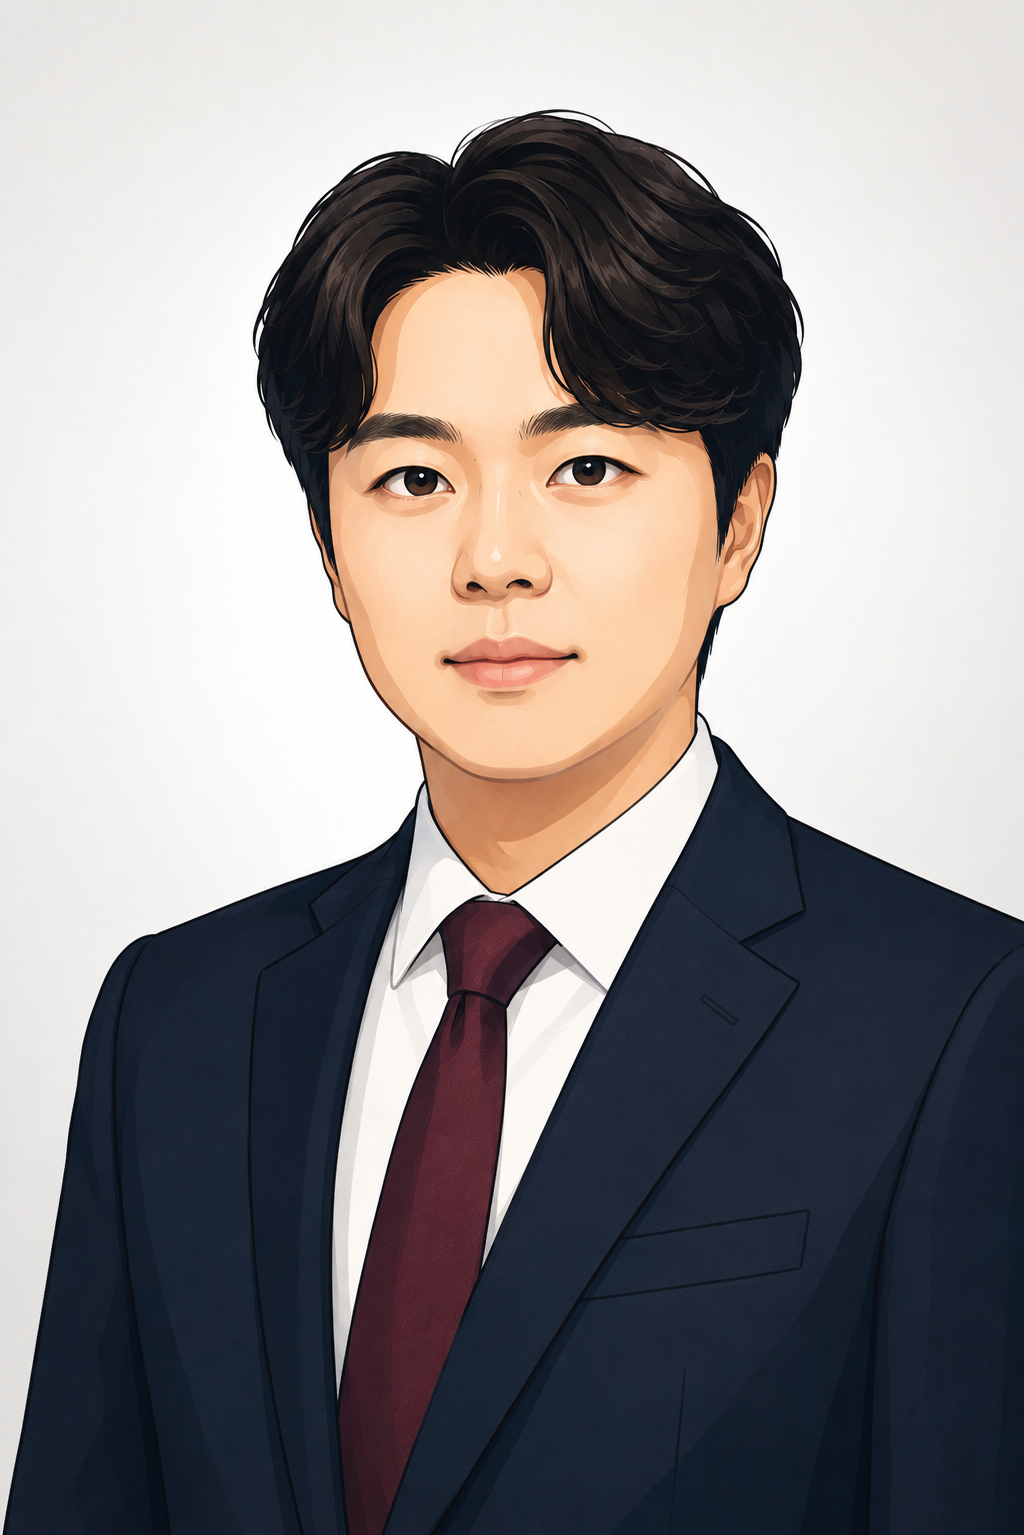
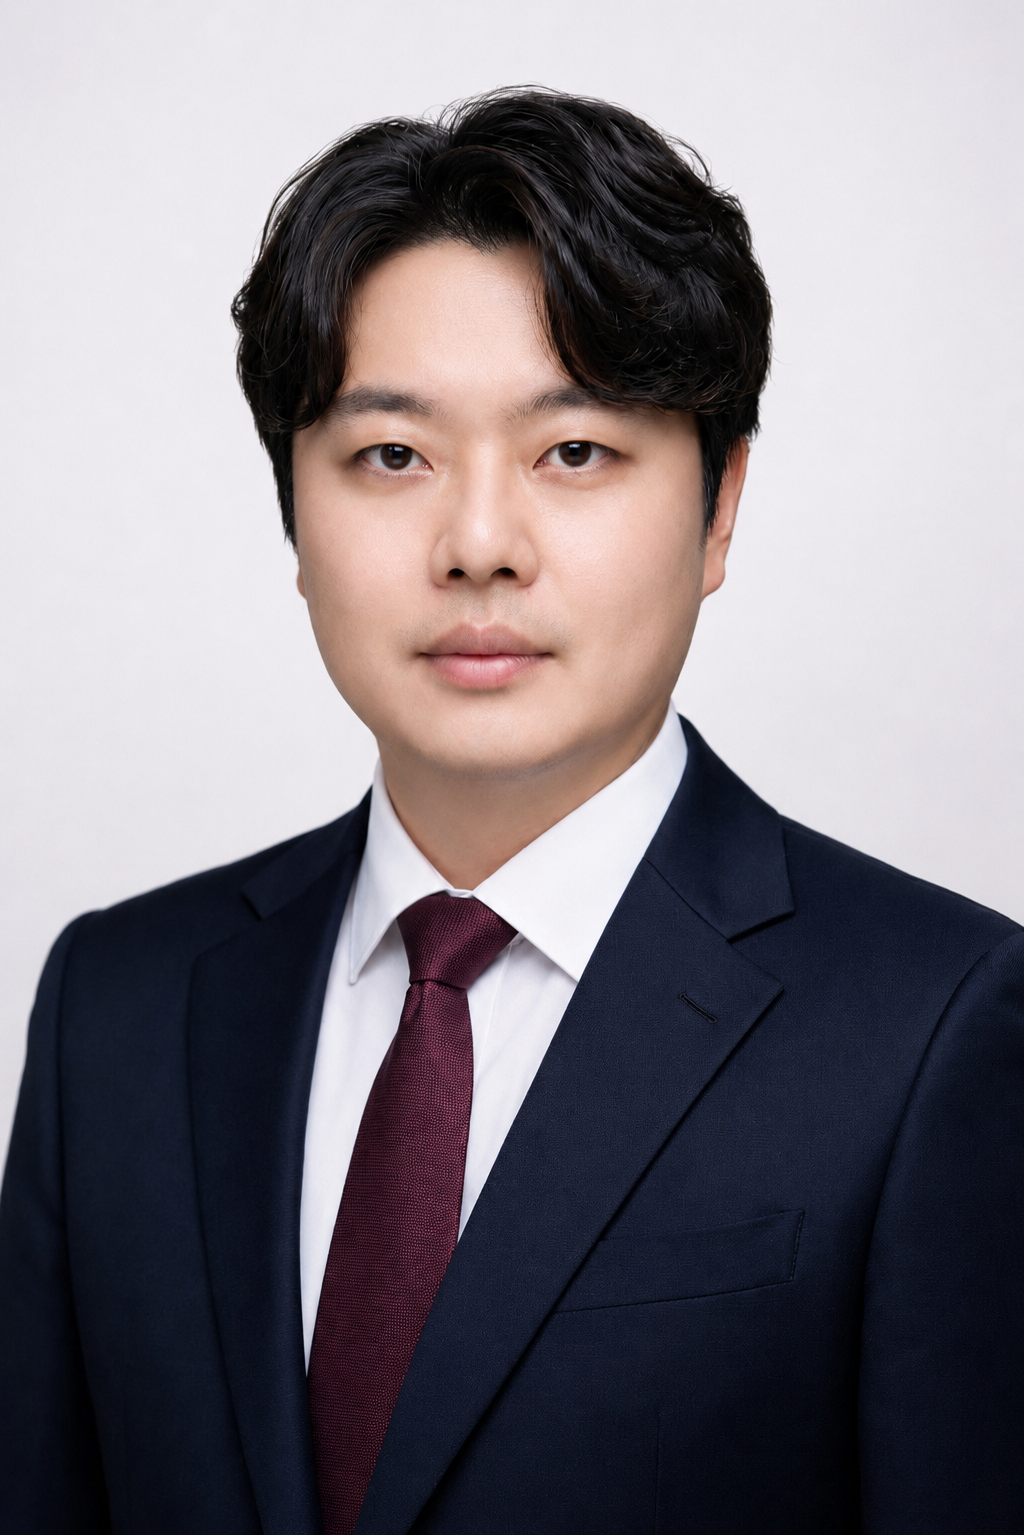
Add files via upload

diff --git a/index.html b/index.html
@@ -3,7 +3,7 @@
 <head>
   <meta charset="UTF-8" />
   <meta name="viewport" content="width=device-width, initial-scale=1.0" />
-  <title>마이퀀트(MyQuant) | 나만의 투자 기준이 곧 프로그램이 됩니다</title>
+  <title>마이퀀트(MyQuant) | 당신의 투자 전략을 자동매매 프로그램으로 만듭니다</title>
   <meta name="description" content="마이퀀트는 개인 투자자의 투자 기준을 조건표로 정리하고, 감시·알림·점검·위험관리·주문 전 확인까지 단계적으로 구성하는 개인 투자 자동화 서비스입니다." />
   <meta name="keywords" content="마이퀀트, MyQuant, 개인 투자 자동화, 투자 기준 정리, 조건 감시, 알림, 위험관리, 매수 후 모니터링" />
   <meta name="robots" content="index, follow, max-image-preview:large, max-snippet:-1, max-video-preview:-1" />
@@ -12,12 +12,12 @@
   <meta property="og:type" content="website" />
   <meta property="og:locale" content="ko_KR" />
   <meta property="og:site_name" content="마이퀀트(MyQuant)" />
-  <meta property="og:title" content="마이퀀트 | 나만의 투자 기준이 곧 프로그램이 됩니다" />
+  <meta property="og:title" content="마이퀀트 | 당신의 투자 전략을 자동매매 프로그램으로 만듭니다" />
   <meta property="og:description" content="1인 1투자 프로그램 시대를 여는 개인 투자 자동화 서비스입니다." />
   <meta property="og:image" content="./asset/CI.png" />
   <meta property="og:image:alt" content="마이퀀트 MyQuant CI" />
   <meta name="twitter:card" content="summary" />
-  <meta name="twitter:title" content="마이퀀트 | 나만의 투자 기준이 곧 프로그램이 됩니다" />
+  <meta name="twitter:title" content="마이퀀트 | 당신의 투자 전략을 자동매매 프로그램으로 만듭니다" />
   <meta name="twitter:description" content="1인 1투자 프로그램 시대를 여는 개인 투자 자동화 서비스입니다." />
   <meta name="twitter:image" content="./asset/CI.png" />
   <link rel="icon" href="./asset/CI.png" type="image/png" />
@@ -68,7 +68,7 @@
     }
   </script>
   <link rel="stylesheet" href="./style.css?v=20260527-1" />
-  <link rel="stylesheet" href="./home-v2.css?v=20260604-82" />
+  <link rel="stylesheet" href="./home-v2.css?v=20260604-86" />
 </head>
 <body id="top">
   <a href="#main-content" class="skip-link">본문으로 바로가기</a>
@@ -129,15 +129,13 @@
       <div class="mq-container mq-hero-grid">
         <div class="mq-hero-copy reveal">
           <p class="mq-eyebrow">개인 투자자를 위한 투자 프로그램 빌더</p>
-          <h1 id="hero-h1" class="mq-typing-title" aria-label="나만의 투자 기준이 곧 프로그램이 됩니다">
-            <span class="mq-type-line mq-type-line-one">나만의 투자 기준이</span>
-            <span class="mq-type-line mq-type-line-two">곧 <em>프로그램</em>이 됩니다</span>
+          <h1 id="hero-h1" class="mq-typing-title" aria-label="당신의 투자 전략을 자동매매 프로그램으로 만듭니다">
+            <span class="mq-type-line mq-type-line-one">당신의 투자 전략</span>
+            <span class="mq-type-line mq-type-line-two"><span class="mq-title-auto-wrap"><em>자동매매 프로그램</em>으로</span> <span class="mq-title-tail">만듭니다</span></span>
           </h1>
           <p class="mq-hero-desc">
-            평소 쓰던 매수 매도 기준을 조건표로 정리하고,<span class="mq-mobile-break">조건이 맞으면 알려 드립니다.</span>
-          </p>
-          <p class="mq-hero-desc mq-hero-desc-sub">
-            감시, 알림, 기록, 위험관리 즉 필요한 기능만 골라<span class="mq-mobile-break">나만의 투자 프로그램으로 만듭니다.</span>
+            평소에 쓰던 주식·코인 매매 기준을 조건표로 정리하고,<br />
+            감시·알림·기록부터 주문 보조까지 필요한 기능을 단계적으로 연결합니다.
           </p>
           <div class="mq-hero-actions">
             <a href="#process" class="mq-btn mq-btn-primary" id="hero-cta-primary">프로그램 살펴보기</a>
@@ -334,7 +332,6 @@
 
         <div class="mq-module-choice-intro reveal reveal-delay-2">
           <strong>필요한 모듈만 선택해 연결합니다</strong>
-          <p>기준 설정은 기본으로 시작하고, 알림·위험관리·기록 기능은 필요한 만큼 선택할 수 있습니다.</p>
         </div>
 
         <div class="mq-flow mq-integrated-flow mq-timeline-flow reveal reveal-delay-2" aria-label="마이퀀트 7단계 세부 흐름">
@@ -391,7 +388,11 @@
 
         <div class="mq-flow-note mq-flow-note-single reveal reveal-delay-2">
           <span class="mq-flow-note-icon" aria-hidden="true"><svg viewBox="0 0 24 24"><circle cx="12" cy="12" r="10" /><path d="m9 12 2 2 4-4" /></svg></span>
-          <strong>처음부터 모든 기능을 쓰지 않아도 됩니다.<br />고객의 기준에 맞춰 <span class="mq-flow-note-highlight">필요한 모듈만</span> 연결합니다.</strong>
+          <strong>
+            <span class="mq-flow-note-primary">기준 설정은 기본</span>, 나머지는
+            <span class="mq-flow-note-highlight">필요한 만큼 선택</span>합니다.<br />
+            <span class="mq-flow-note-muted">알림·위험관리·기록 기능을 고객의 기준에 맞춰 연결합니다.</span>
+          </strong>
         </div>
       </div>
     </section>
@@ -408,9 +409,15 @@
               마이퀀트는 투자 판단을 대신하지 않고, 정한
               <span class="mq-program-emphasis mq-program-emphasis-green">위험 기준</span>이 놓치지 않게 관리되도록 돕습니다.
             </p>
+            <p class="mq-program-preview-hint">실제 화면이 궁금하다면 샘플 프로그램을 먼저 확인해보세요.</p>
             <div class="mq-program-actions">
-              <a href="#contact" class="mq-btn mq-btn-primary">내 기준 상담하기</a>
-              <button type="button" class="mq-btn mq-btn-secondary" id="sample-program-btn">샘플 프로그램 보기</button>
+              <a href="#contact" class="mq-btn mq-btn-primary">내 기준 무료진단 받기</a>
+              <button type="button" class="mq-btn mq-btn-secondary" id="sample-program-btn">
+                <span class="mq-program-preview-icon" aria-hidden="true">
+                  <svg viewBox="0 0 24 24"><rect x="3" y="4" width="18" height="12" rx="2" /><path d="M8 20h8" /><path d="M12 16v4" /><path d="m8 11 2.2-2.2 2.2 1.8L16 7" /></svg>
+                </span>
+                프로그램 화면 미리보기
+              </button>
             </div>
             <div class="mq-program-callout">
               <span class="mq-program-callout-icon" aria-hidden="true">

diff --git a/home-v2.css b/home-v2.css
@@ -9482,7 +9482,10 @@ body {
   align-items: center;
   justify-content: center;
   gap: 16px;
+  background: linear-gradient(90deg, #eaf2ff 0%, #f8fbff 100%);
+  border: 1px solid #bfdbfe;
   padding: 26px 34px;
+  box-shadow: 0 12px 30px rgba(37, 99, 235, 0.08);
 }
 
 .mq-flow-section .mq-flow-note-single .mq-flow-note-icon {
@@ -9493,7 +9496,23 @@ body {
 
 .mq-flow-section .mq-flow-note-single strong {
   max-width: 760px;
+  color: #475569;
   text-align: left;
+}
+
+.mq-flow-section .mq-flow-note-single .mq-flow-note-primary {
+  color: #0f172a;
+  font-weight: 900;
+}
+
+.mq-flow-section .mq-flow-note-single .mq-flow-note-highlight {
+  color: #2563eb;
+  font-weight: 900;
+}
+
+.mq-flow-section .mq-flow-note-single .mq-flow-note-muted {
+  color: #475569;
+  font-weight: 800;
 }
 
 @media (max-width: 720px) {
@@ -10005,6 +10024,109 @@ body {
   }
 }
 
+/* Program CTA clarity */
+.mq-program-preview-hint {
+  display: none;
+}
+
+.mq-program-preview-icon {
+  width: 18px;
+  height: 18px;
+  display: inline-flex;
+  align-items: center;
+  justify-content: center;
+  flex: 0 0 18px;
+}
+
+.mq-program-preview-icon svg {
+  width: 18px;
+  height: 18px;
+  fill: none;
+  stroke: currentColor;
+  stroke-width: 2.1;
+  stroke-linecap: round;
+  stroke-linejoin: round;
+}
+
+.mq-program-actions .mq-btn:active {
+  transform: translateY(-1px) scale(0.99);
+}
+
+@media (max-width: 720px) {
+  .mq-program-preview-hint {
+    display: block;
+    max-width: 320px;
+    margin: 22px auto 0;
+    color: #64748b;
+    font-size: 14px;
+    line-height: 1.55;
+    text-align: center;
+  }
+
+  .mq-program-actions {
+    flex-direction: column;
+    gap: 12px;
+    width: 100%;
+    margin-top: 10px;
+  }
+
+  .mq-program-actions .mq-btn {
+    width: 100%;
+    min-height: 54px;
+  }
+
+  .mq-program-actions .mq-btn-secondary {
+    background: #eff6ff;
+    color: #1d4ed8;
+    border-color: #bfdbfe;
+    box-shadow: 0 10px 24px rgba(37, 99, 235, 0.1);
+  }
+
+  .mq-program-actions .mq-btn-secondary:hover,
+  .mq-program-actions .mq-btn-secondary:active {
+    background: #dbeafe;
+    border-color: #93c5fd;
+  }
+}
+
+/* Make the rule example label easier to scan. */
+.mq-flow-section .mq-rule-card-head {
+  gap: 14px;
+  color: #1d4ed8;
+  font-size: 21px;
+  font-weight: 950;
+}
+
+.mq-flow-section .mq-rule-icon {
+  width: 52px;
+  height: 52px;
+  flex: 0 0 52px;
+}
+
+.mq-flow-section .mq-rule-icon svg {
+  width: 26px;
+  height: 26px;
+  stroke-width: 2.2;
+}
+
+@media (max-width: 720px) {
+  .mq-flow-section .mq-rule-card-head {
+    gap: 12px;
+    font-size: 19px;
+  }
+
+  .mq-flow-section .mq-rule-icon {
+    width: 48px;
+    height: 48px;
+    flex-basis: 48px;
+  }
+
+  .mq-flow-section .mq-rule-icon svg {
+    width: 24px;
+    height: 24px;
+  }
+}
+
 /* Fixed top navigation */
 :root {
   --nav-h: 82px;
@@ -10052,5 +10174,68 @@ html {
 
   .mq-page {
     padding-top: var(--nav-h);
+  }
+}
+
+/* Hero title alignment and mobile containment */
+.mq-hero-copy {
+  width: 100%;
+  max-width: 1180px;
+}
+
+.mq-hero h1 {
+  width: 100%;
+  max-width: 1160px;
+  text-align: center;
+}
+
+.mq-typing-title {
+  justify-items: center;
+  text-align: center;
+}
+
+.mq-type-line {
+  margin-right: auto;
+  margin-left: auto;
+  text-align: center;
+}
+
+.mq-title-auto-wrap,
+.mq-title-tail {
+  display: inline;
+}
+
+@media (max-width: 720px) {
+  .mq-hero-copy {
+    max-width: 100%;
+    overflow: hidden;
+  }
+
+  .mq-hero h1 {
+    max-width: 100%;
+    font-size: clamp(34px, 9.2vw, 44px);
+    line-height: 1.15;
+  }
+
+  .mq-type-line {
+    width: 100%;
+    max-width: 100%;
+    overflow: visible;
+    white-space: normal;
+  }
+
+  .mq-title-auto-wrap,
+  .mq-title-tail {
+    display: block;
+  }
+
+  .mq-type-line-two::after {
+    margin-left: 3px;
+  }
+
+  .mq-hero-desc {
+    max-width: 100%;
+    font-size: 15.8px;
+    line-height: 1.72;
   }
 }

diff --git a/main.js b/main.js
@@ -284,7 +284,7 @@
 	      product    = `${scopeLabel} 위험관리 구성`;
 	      duration   = '위험관리 범위 검토';
 	    } else if (hasVerify) {
-	      complexity = '과거 데이터와 모의운영으로 전략 특성을 먼저 확인합니다';
+	      complexity = '과거 데이터와 모의운영으로 기준 특성을 먼저 확인합니다';
 	      product    = `${scopeLabel} 사전 점검 + 기록`;
 	      duration   = '점검 범위 검토';
 	    } else if (hasNotify) {
@@ -308,7 +308,7 @@
     const pct = Math.min(96, 10 + count * 4 + weight * 3);
 
 	    /* 선택 기능 기준 예상 금액 계산 */
-    const basePrice = 90000; // 전략 조건표 기본 설계 비용 9만 원
+    const basePrice = 90000; // 기준 조건표 기본 설계 비용 9만 원
     let totalPrice = 0;
     const activeWithPrice = active.filter(o => o.dataset.price && parseInt(o.dataset.price, 10) > 0);
     
@@ -342,7 +342,7 @@
     });
 
     if (moduleChipRow) {
-      const chips = ['전략 정리', ...active.map(o => o.dataset.module).filter(Boolean)];
+      const chips = ['기준 정리', ...active.map(o => o.dataset.module).filter(Boolean)];
       moduleChipRow.innerHTML = chips.map(label => `<span>${label}</span>`).join('');
     }
   }
